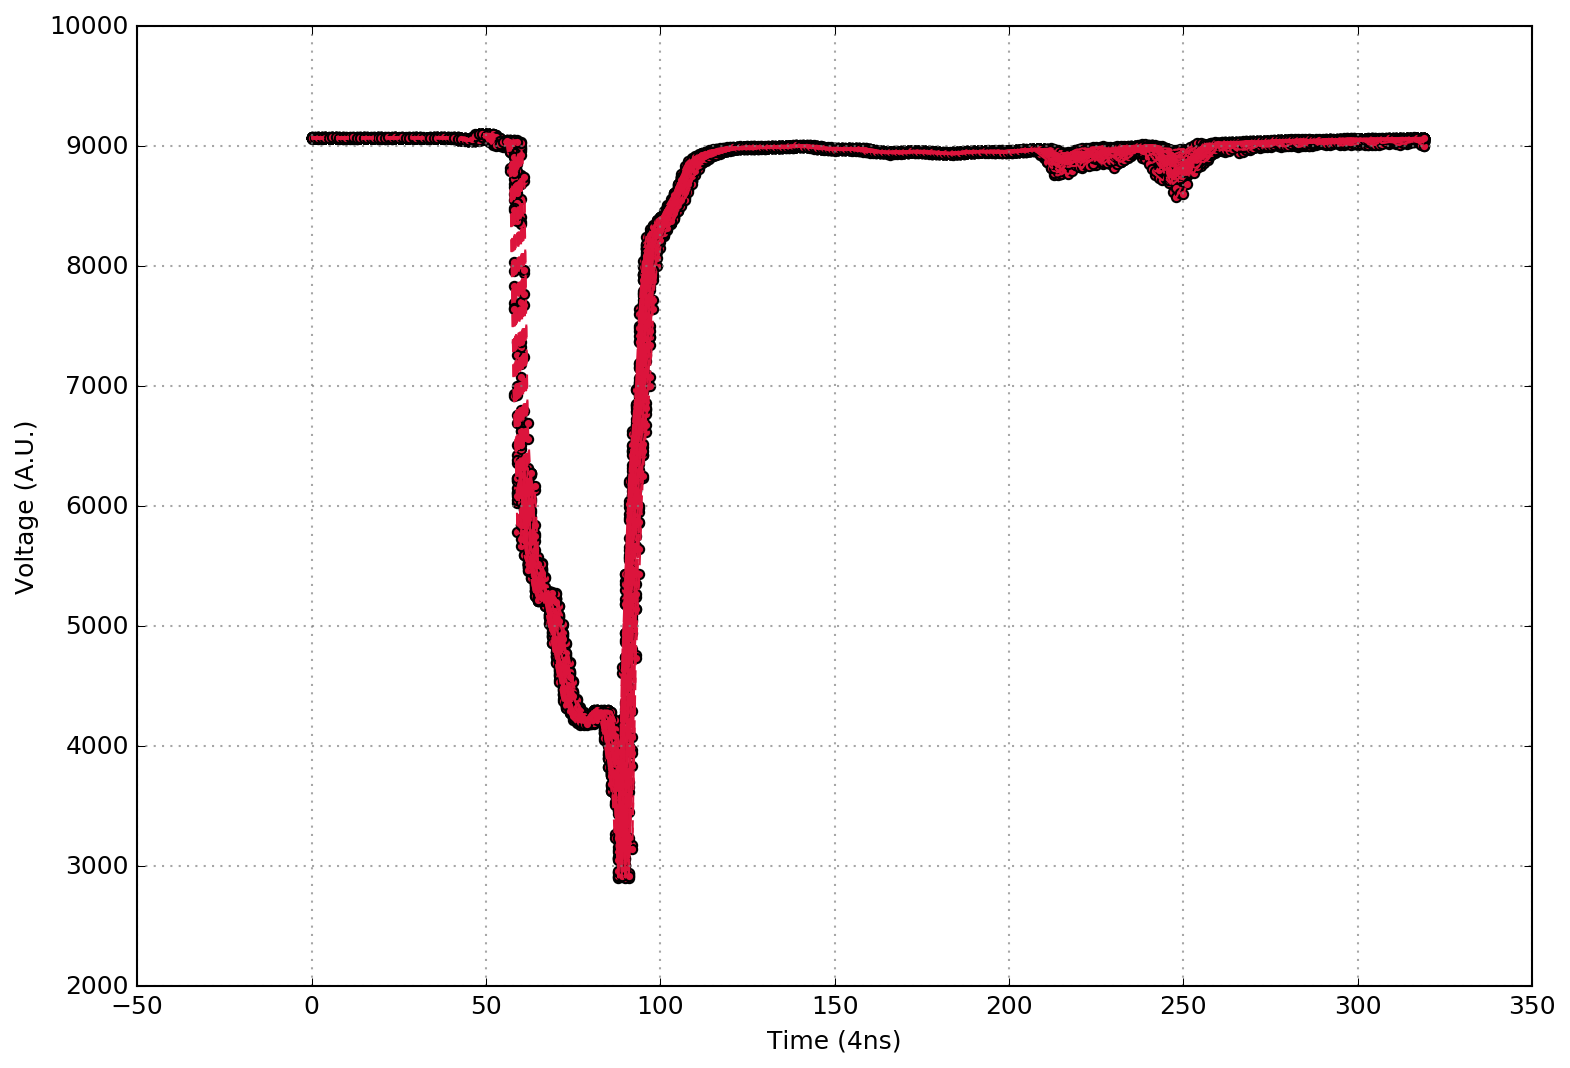
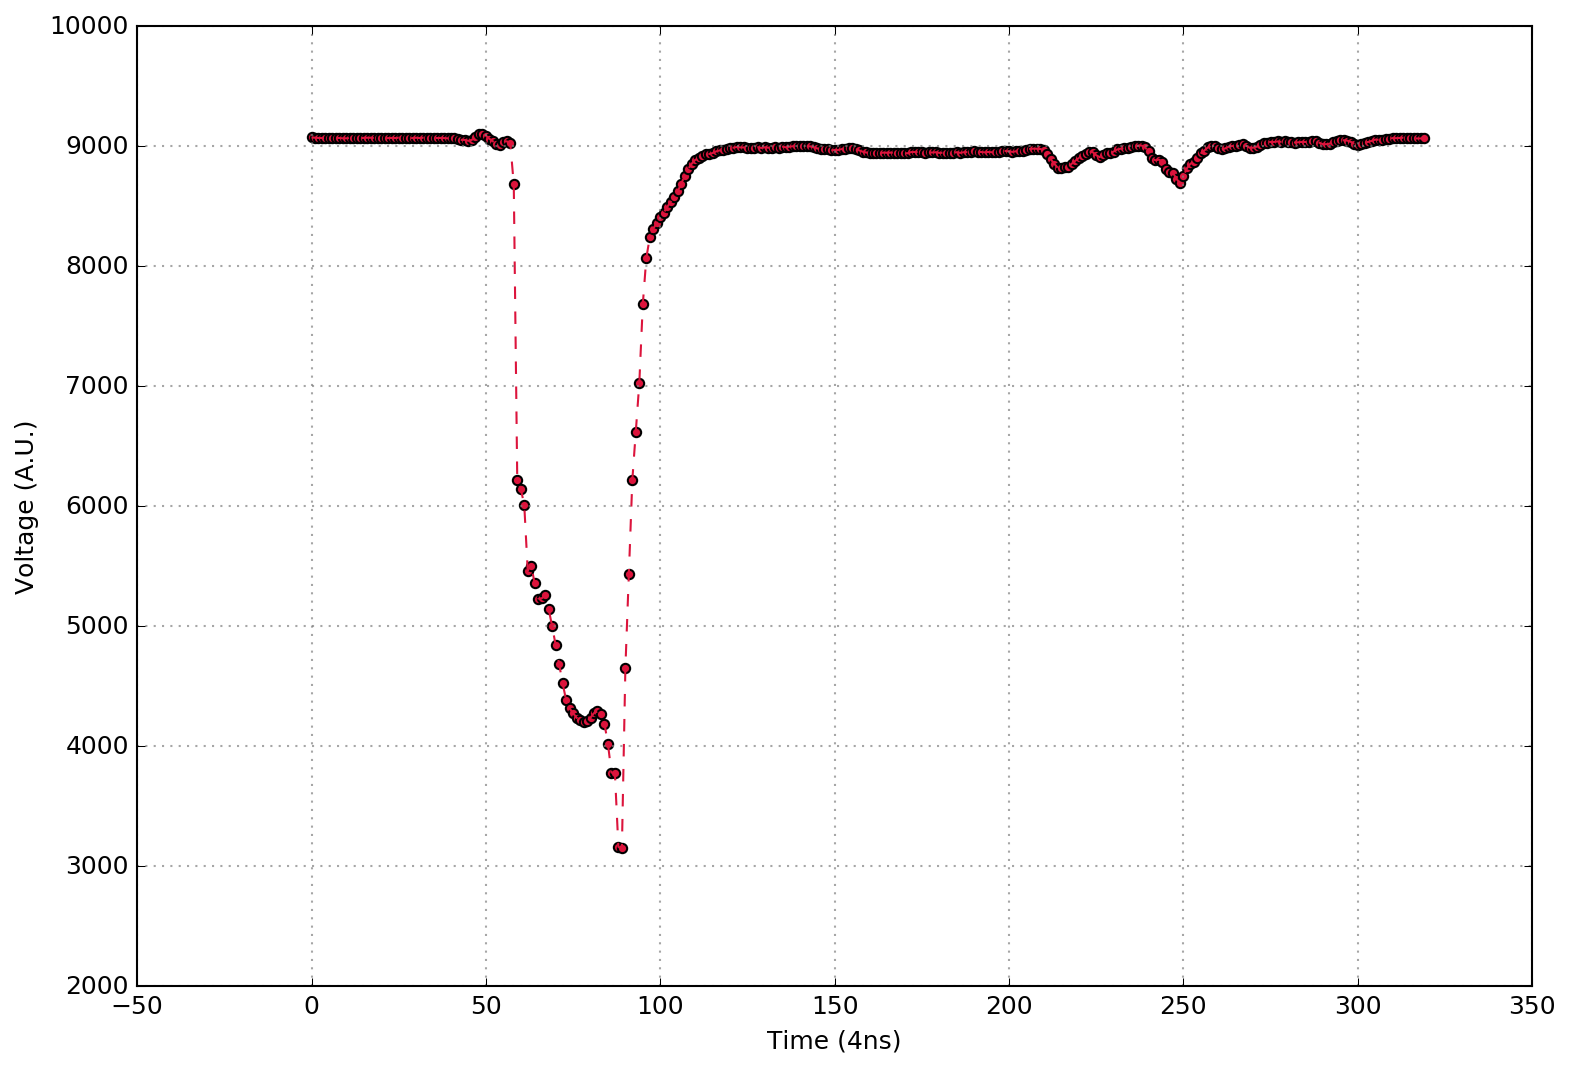
add option to specify number of wv to plot

Changed region(s): [[0.1873, 0.1236, 0.9051, 0.8343]]

diff --git a/plot_wv.py b/plot_wv.py
@@ -4,6 +4,7 @@ Plots DDC2 waveforms
 """
 import argparse
 from argparse import ArgumentParser, ArgumentDefaultsHelpFormatter
+from operator import add
 import numpy as np
 import matplotlib as mpl
 from matplotlib import pyplot as plt
@@ -25,6 +26,10 @@ def parse_args():
         help='''Numpy files'''
     )
     parser.add_argument(
+        '-n', '--nplot', type=int, metavar='INT', required=False,
+        help='''Specify number of waveforms to plot'''
+    )
+    parser.add_argument(
         '-o', '--outfile', type=str, default='images/test.png',
         metavar='FILE', required=False, help='''Output location of plot'''
     )
@@ -32,7 +37,7 @@ def parse_args():
     return args
 
 
-def make_wv_plot(data, outfile):
+def make_wv_plot(data, outfile, nplot):
     """Make the waveform plot"""
     fig = plt.figure(figsize=(12, 8))
     ax = fig.add_subplot(111)
@@ -40,9 +45,14 @@ def make_wv_plot(data, outfile):
     ax.set_xlabel('Time (4ns)')
     ax.set_ylabel('Voltage (A.U.)')
 
+    idx = 0
     for d in data:
-        ax.scatter(d[:,0], d[:,1], marker='o', c='crimson')
-        ax.plot(d[:,0], d[:,1], linestyle='--', linewidth=1, c='crimson')
+        if idx == nplot: break
+        for e in d:
+            if idx == nplot: break
+            ax.scatter(e[:,0], e[:,1], marker='o', c='crimson')
+            ax.plot(e[:,0], e[:,1], linestyle='--', linewidth=1, c='crimson')
+            idx += 1
 
     for ymaj in ax.yaxis.get_majorticklocs():
         ax.axhline(y=ymaj, ls=':', color='gray', alpha=0.7, linewidth=1)
@@ -58,9 +68,12 @@ def main():
     data = []
     for f in args.infiles:
         data.append(np.load(f))
-    data = np.vstack(data)
+    ntot = reduce(add, [x.shape[0] for x in data])
+    print 'Loaded {0} waveforms'.format(ntot)
 
-    make_wv_plot(data, args.outfile)
+    if args.nplot is not None: nplot = args.nplot
+    else: nplot = ntot
+    make_wv_plot(data, args.outfile, nplot)
 
     print '=========='
     print 'DONE'
